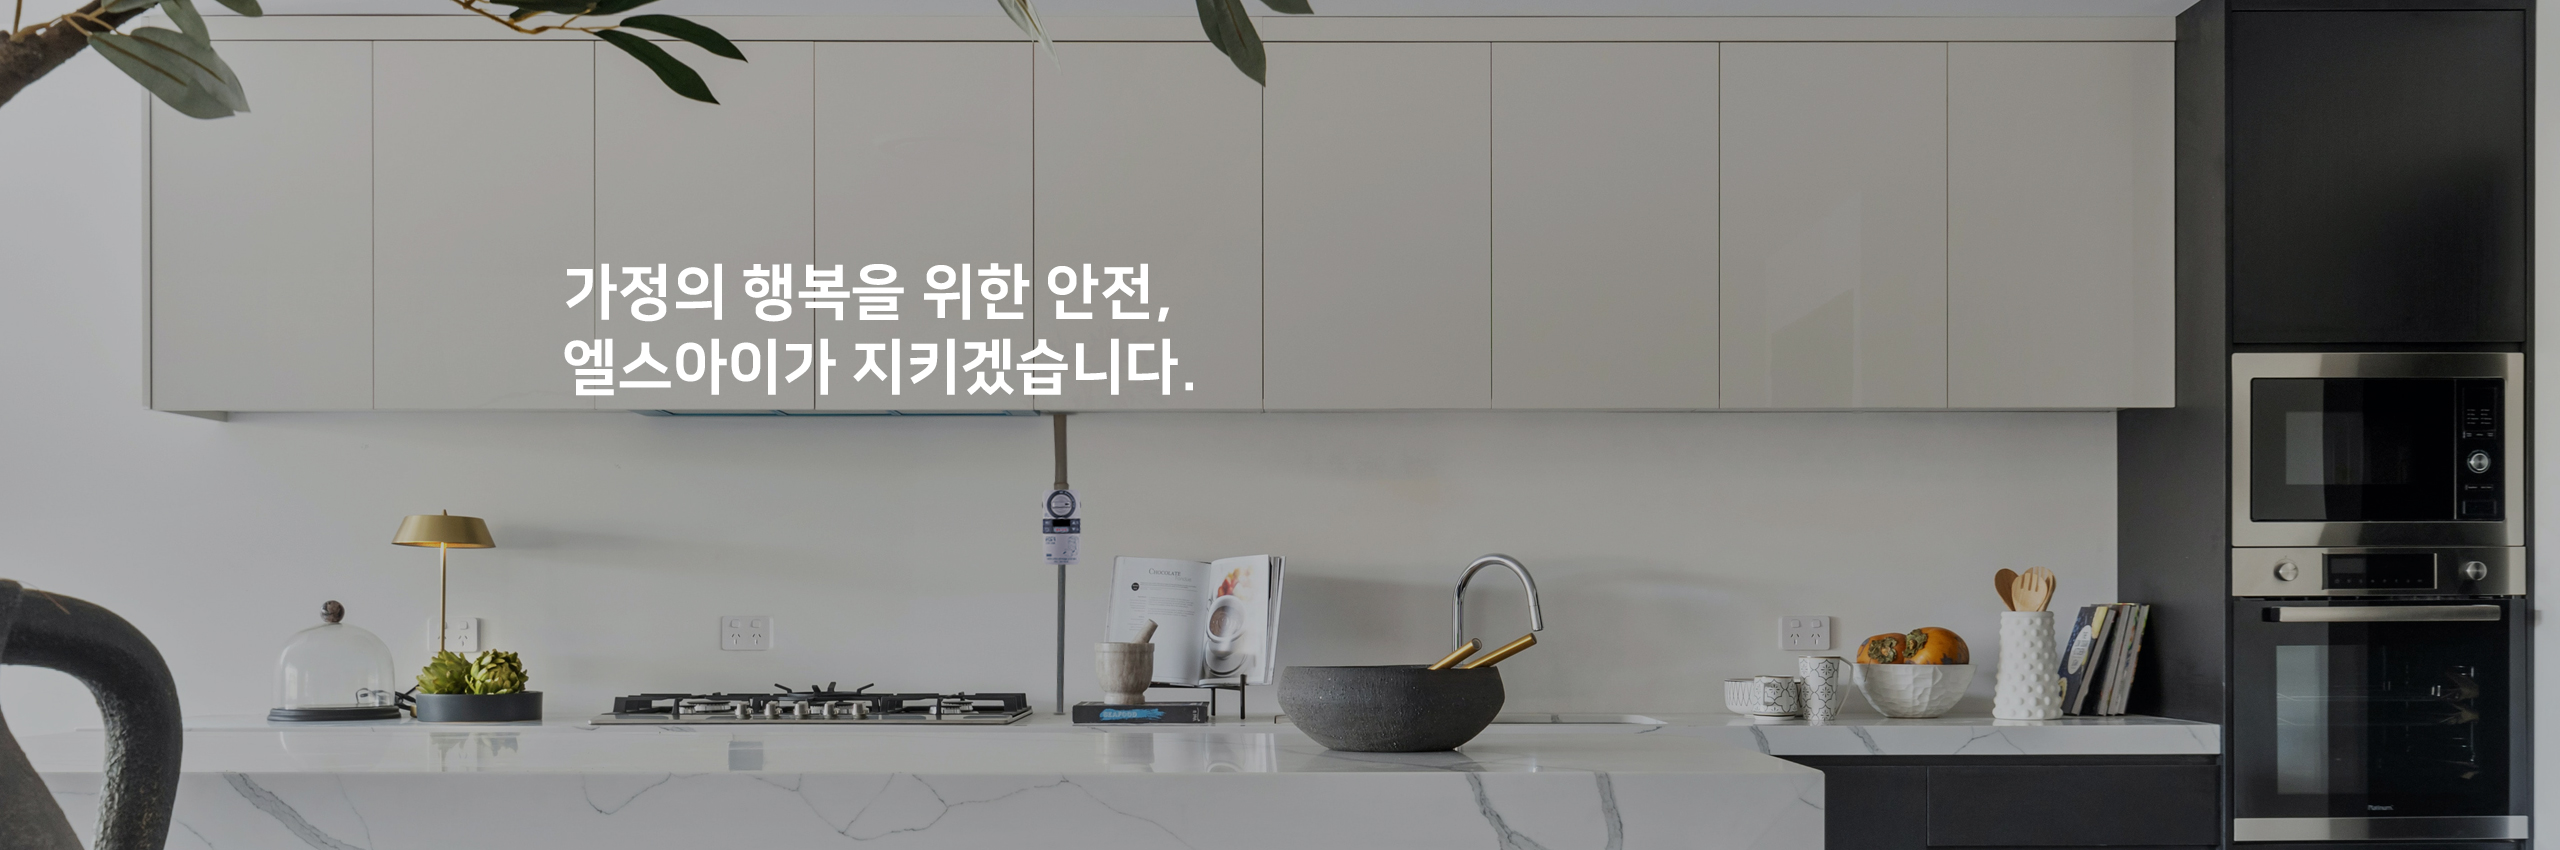
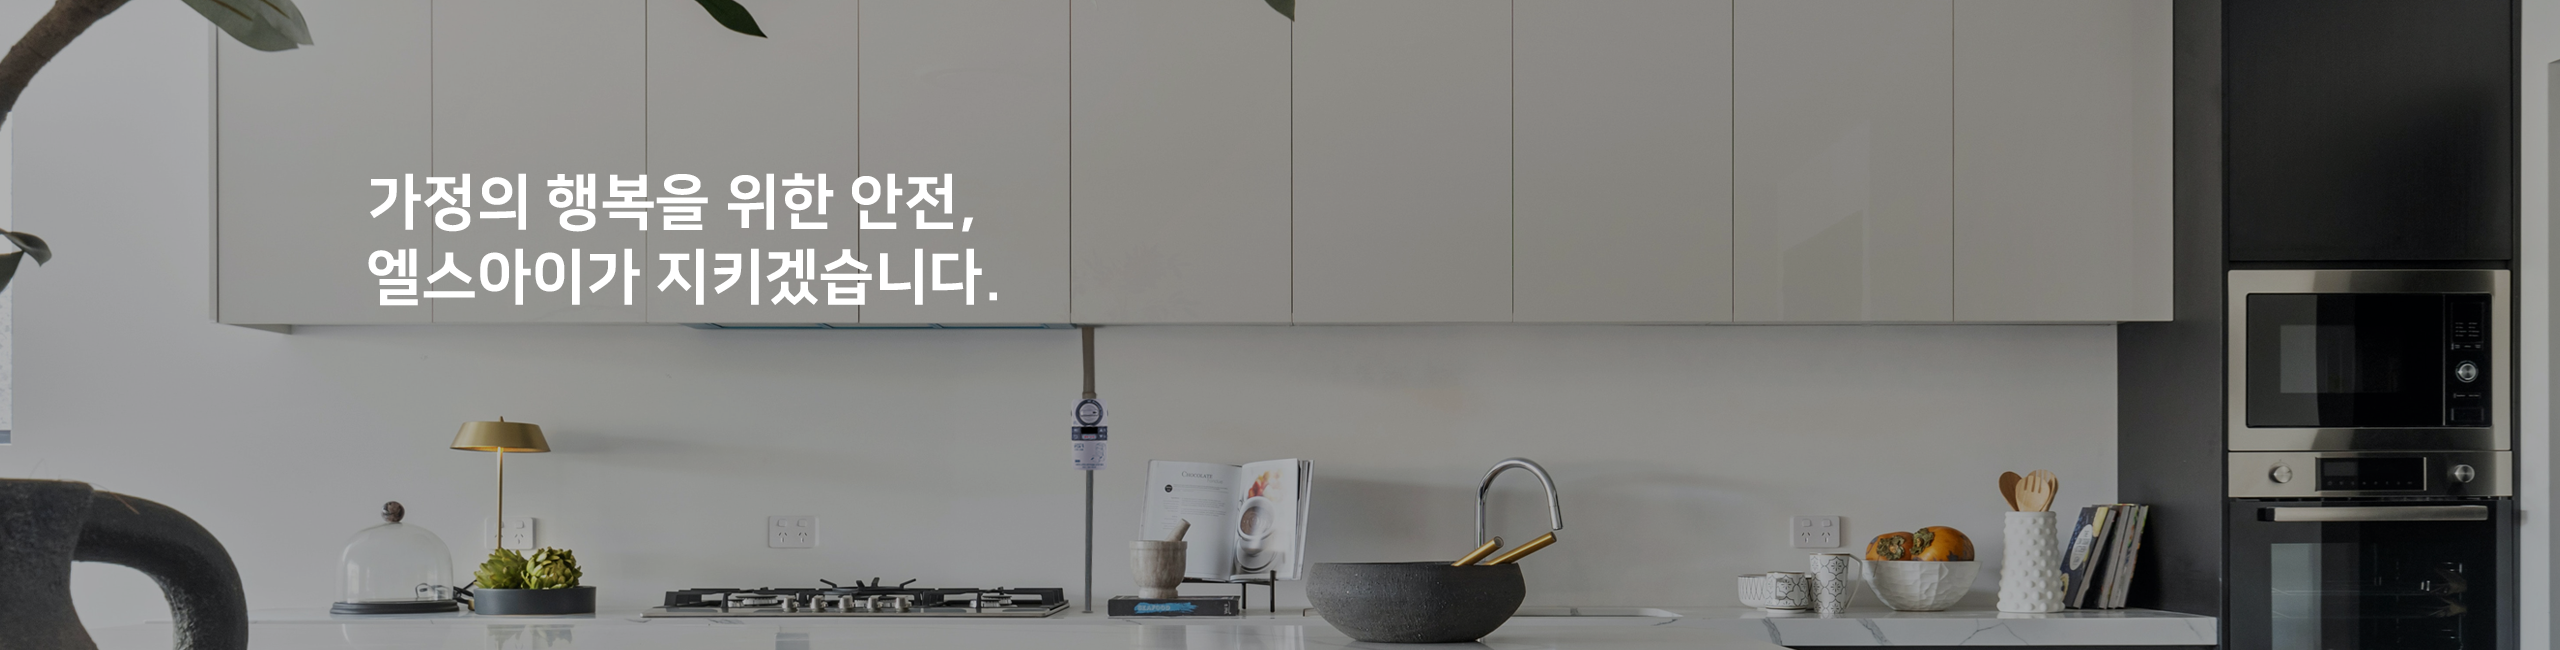
2022-10-19 배너 수정

diff --git a/index.html b/index.html
@@ -54,7 +54,7 @@
     </header>
     <section>
         <div id="banner">
-            <a href="#"><img src="images/main_banner03.png" alt="배너이미지"></a>
+            <a href="#"><img src="images/main_banner02.png" alt="배너이미지"></a>
             <h2>가정의 행복을 위한 안전, <br>
             엘스아이가 지키겠습니다.</h2>
         </div>
@@ -111,7 +111,7 @@
                     </div>
                     <div class="notice-2">
                         <li>홈페이지 리뉴얼 중입니다.</li>
-                        <li class="num">05 - 04</li>
+                        <li class="num">05 - 04</li>                       
                     </div>
                 </div>
                 <div class="guide">

diff --git a/css/style.css b/css/style.css
@@ -335,10 +335,6 @@ header {
     display: flex;
 }
 
-.guide-1 img {
-
-}
-
 .guide-2 {
     width: 416px;
     height: 140px;
